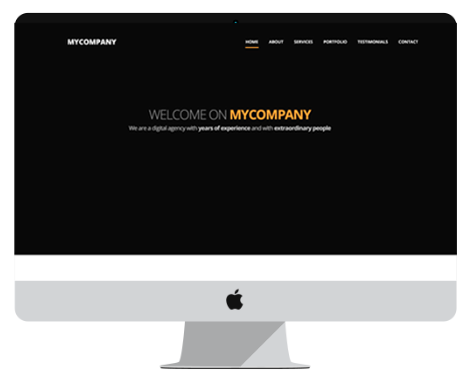
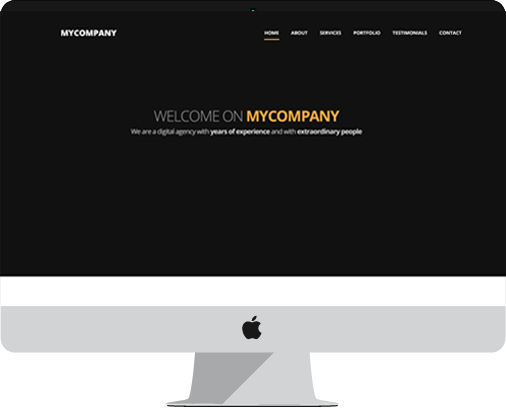
Second version

diff --git a/css/css.css b/css/css.css
@@ -1,9 +1,8 @@
+*{padding: 0; margin: 0; border: 0;}
 body {
     font-family: 'Open Sans', sans-serif;
     color: #1F1D1F;
 	font-size: 13px;
-    letter-spacing: 1px;
-    line-height: 1.5;
 }
 h3 {
     color:white;
@@ -12,24 +11,25 @@ h3 {
     padding-top: 45px;
     font-size: 20px;
 }
-.orange {
-    font-weight: bold;
-    color:#FFA637;
-    margin-top: -75px;
-    text-align: center;
-    margin-left: 205px;
-    font-size: 30px;
+p {
+    color: white;
+}
+a {
+    color: white;
+    font-family: 'Open Sans', sans-serif;
 }
 
-P {
-    color:white;
 
-}
 .home_page {
     background-color: black;
     height: 700px;
-    width: 110%;
-    margin: -30px;
+    width: 100%;
+}
+.about_team_page {
+    background-color: black;
+    height: 500px;
+    width: 100%;
+    
 }
 .head_button {
     color:white;
@@ -50,55 +50,65 @@ P {
     margin-top: -45px;
 }
 .welcome_text {
-    margin-top: 200px;
-    margin-left: -230px;
-    text-align: center;
+    padding-right: 10px;
     font-size: 30px;
+    display: table-cell;
+}
+.orange {
+    display: table-cell;
+    font-weight: bold;
+    color:#FFA637;
+    margin-top: -75px;
+    margin-left: 205px;
+    font-size: 30px;
+}
+#welcome_text {
+    display: table;
+    margin-top: 200px;
+    margin-left: 35%;
+    text-align: center;
 }
 .welcome_text_black {
-    margin-top: 185px;
-    margin-right: 450px;
-    float:right;
+    margin-top: -370px;
+    margin-left: 740px;
     font-size: 30px;
-    color: black;
-    border-bottom:solid;
+    color: black; 
     padding-bottom: 10px;
-    border-color: #FFA637;
-    
+    width:30%;
+    border-bottom:3px solid #FCAC45;
 }
+
 .past_welcome_text {
     text-align: center;
     margin-top: -27px;
     font-family: 'Bebas Neue', cursive;
     font-family: 'Dongle', sans-serif;
     font-family: 'Open Sans', sans-serif;
-    
+    margin-top: 10px;
 }
 .past_welcome_text_black {
-    text-align: left;
-    margin-top: -180px;
-    margin-left: 637px;
-    font-family: 'Bebas Neue', cursive;
-    font-family: 'Dongle', sans-serif;
-    font-family: 'Open Sans', sans-serif;
+    margin-top: -5px;
+    margin-left: 770px;
     color:black;
     font-size: 16px;
+    font-family: 'Open Sans', sans-serif;
+    text-align: left;
 }
 .about_page {
     background-color: white;
     height: 600px;
-    width: 110%;
-    margin-left: -20px;
+    width: 100%;
+    text-align: center;
 }
 .mac_img {
-    height: 300px;
-    width: 350px;
-    margin-top: 150px;
-    margin-left: 150px;
+    height: 400px;
+    width: 450px;
+    margin-top: 100px;
+    margin-left: -700px;
     
 } 
 .about_ul {
-    margin-left: 615px;
+    margin-left: 750px;
 }
 ul {
     list-style-image: url(../images/znak.png);
@@ -106,4 +116,35 @@ ul {
     font-family: 'Dongle', sans-serif;
     font-family: 'Open Sans', sans-serif;
     font-size: 15px;
+    text-align: left;
+}
+.about_team_h {
+    margin-left: 45%;
+    font-size: 32px;
+    border-bottom: 3px solid #FCAC45;
+    
+}
+.men {
+    margin-left: 10%;
+    display: table;
+    margin-top: 100px;
+}
+.man div {
+    height: 80px;
+    width: 80px;
+    background-color: #D7D7D7;
+    border-radius: 50%;
+    display: inline-block;
+    margin-left: -15px;
+}
+.man p {
+    text-align: center;
+    margin-right: 20px;
+    margin-bottom: -5px;
+    font-family: 'Open Sans', sans-serif;
+    font-size: 13px;
+}
+.man {
+    text-align: center;
+    display: table-cell;
 }

diff --git a/index.html b/index.html
@@ -22,19 +22,51 @@
 			<button class="head_button">CONTACT</button>
 		</div>
 		
-		<p class="welcome_text">WELCOME ON <p class="orange">MYCOMPANY</p></p> 
+		<div id="welcome_text"><p class="welcome_text">WELCOME ON <p class="orange">MYCOMPANY</p></p></div> 
 		<p class="past_welcome_text">We are a digital agency with <b>years of experience</b> and with <b>extraordinary people</b></p>
 	</div>
 	<div class="about_page">
 		<img class="mac_img" src="images/mac.png" alt="">
-
+		
 		<p class="welcome_text_black">SOME WORDS <b> ABOUT US </b></p> 
+
 		<p class="past_welcome_text_black">Lorem ipsum dolor sit amet, consectetur adipisicing <br> elit. Doloribus ex quidem maiores ullam quis, at as <br> periores minus ad eaque maxime possimus .</p>
 		<ul class="about_ul">
 			<li ><b>Mission</b> - We deliver uniqueness and quality</li>
 			<li><b>Skills</b> - Delivering fast and excellent results</li>
 			<li><b>Clients</b> - Satisfied clients thanks to our experience</li>
 		</ul>
+	</div>
+	<div class="about_team_page">
+		<br><br><br><br>
+		<a class="about_team_h">OUR TEAM</a> 
+		<div class="men">
+			<div class="man">
+				<div></div>	
+				<p class="name">Vlad Ivanov</p> <br>
+				<p>Designer</p> <br>
+				<p>Do not seek to change what has come <br> before. Seek to create that which has not.</p>
+			</div>
+			<div class="man">
+				<div></div>	
+				<p class="name">Bogdan Makarov</p> <br>
+				<p>Manager</p> <br>
+				<p>Do not seek to change what has come <br> before. Seek to create that which has not.</p>
+			</div>
+			<div class="man">
+				<div></div>	
+				<p class="name">Pavel Konov</p> <br>
+				<p>Copywriter</p> <br>
+				<p>Do not seek to change what has come <br> before. Seek to create that which has not.</p>
+			</div>
+			<div class="man">
+				<div></div>	
+				<p class="name">Max Belov</p> <br>
+				<p>SEO</p> <br>
+				<p>Do not seek to change what has come <br> before. Seek to create that which has not.</p>
+			</div>
+			
+		</div>
 	</div>
 	<script src="js/js.js"></script>
 </body>
